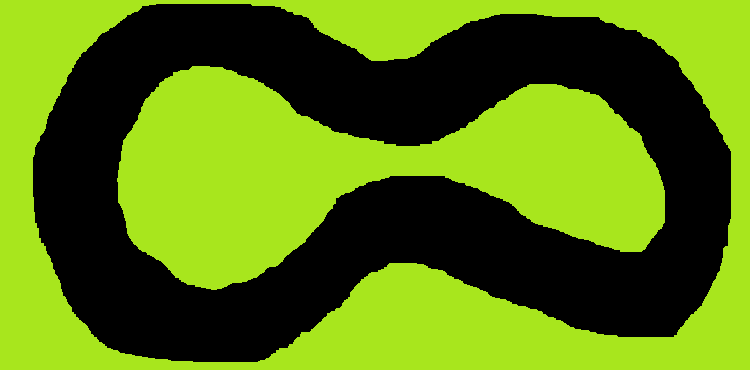
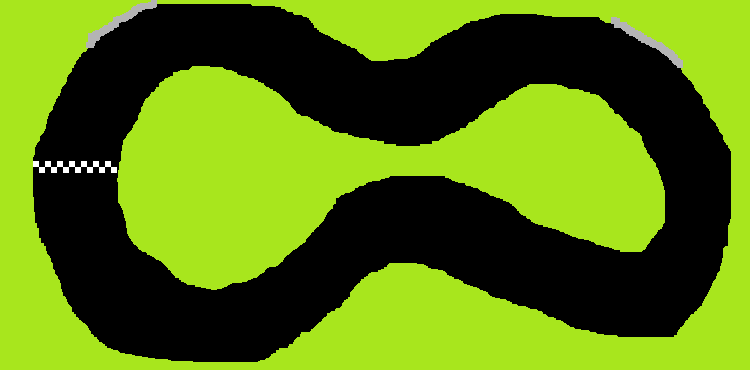
.
.

diff --git a/src/js/level1.js b/src/js/level1.js
@@ -15,22 +15,36 @@ export class Level1 extends Scene {
         this.background = new Background(Resources.Background.toSprite(), 750, 370, 3, 3);
         this.add(this.background);
 
-        // Add the finish line
-        this.finishLine = new FinishLine(-150, 300, 200, 10);
-        this.add(this.finishLine);
-    }
-    
-    onActivate() {
+        // Add checkpoints
+        this.checkpoints = [];
+
+        // Example of checkpoint creation
+        const checkpoint1 = new FinishLine(1700, 300, 200, 10, false); // Adjust position and size as needed
+        this.add(checkpoint1);
+        this.checkpoints.push(checkpoint1);
+
+        // Example of another checkpoint
+        const checkpoint2 = new FinishLine(-150, 300, 200, 10, false); // Adjust position and size as needed
+        this.add(checkpoint2);
+        this.checkpoints.push(checkpoint2);
+
+        // Set the last checkpoint and final finish line
+        this.checkpoints[this.checkpoints.length - 1].isFinalFinishLine = true;
+
+        // Add the finish line (final) 1700, 300, 200, 10, fals
+        this.finishLineFinal = new FinishLine(1700, 300, 200, 10, false);
+        this.add(this.finishLineFinal);
+
         // Create Player 1 (Red Car)
-        this.player1 = new Player(300, 300, 50, 50, true, this.game);
+        this.player1 = new Player(-150, 200, 50, 80, true, this.game);
         this.add(this.player1);
     
         // Create Player 2 (Blue Car)
-        this.player2 = new Player(500, 300, 50, 50, false, this.game);
+        this.player2 = new Player(-50, 200, 50, 80, false, this.game);
         this.add(this.player2);
 
         // Create and add a Gun to the scene
-        this.gun = new Gun(Resources.Gun.toSprite(), 400, 300, 30, 10, "Gun");
+        this.gun = new Gun(Resources.Gun.toSprite(), 500, 0, 50, 40, "Gun");
         this.add(this.gun);
     }
 

diff --git a/src/js/players.js b/src/js/players.js
@@ -43,9 +43,18 @@ export class Player extends Actor {
             gun.pos = new Vector(0, -this.height / 2 - gun.height / 2);
         }
 
-        // Check if the player has completed a lap
+        // Check if the player has passed a checkpoint
         if (event.other instanceof FinishLine) {
-            this.game.addLap();
+            if (!event.other.isCheckpointPassed()) {
+                // Mark checkpoint as passed
+                event.other.setCheckpointPassed();
+                console.log('Checkpoint passed!');
+            } else {
+                // If all checkpoints are passed and it's the final finish line, add a lap
+                if (event.other.isFinalFinishLine && this.game) {
+                    this.game.addLap();
+                }
+            }
         }
     }
 

diff --git a/src/js/finishline.js b/src/js/finishline.js
@@ -1,16 +1,27 @@
 import { Actor, CollisionType, Vector } from 'excalibur';
 
 export class FinishLine extends Actor {
-    constructor(x, y, width, height) {
+    constructor(x, y, width, height, checkpointPassed = false) {
         super({
             pos: new Vector(x, y),
             width: width,
             height: height,
             collisionType: CollisionType.Passive
         });
+
+        this.checkpointPassed = checkpointPassed;
+        this.isFinalFinishLine = false; 
     }
 
     onInitialize(engine) {
         this.graphics.opacity = 0;
+    }
+
+    setCheckpointPassed() {
+        this.checkpointPassed = true;
+    }
+
+    isCheckpointPassed() {
+        return this.checkpointPassed;
     }
 }

diff --git a/src/js/game.js b/src/js/game.js
@@ -27,7 +27,7 @@ export class Game extends Engine {
         const groupedColliders = new GroupedColliders();
         mainScene.add(groupedColliders);
 
-        // Initialize and add UI
+        // Game UI
         this.ui = new UI();
         console.log("UI initialized", this.ui);
         this.add(this.ui);

diff --git a/src/js/ui.js b/src/js/ui.js
@@ -25,11 +25,3 @@ export class UI extends ScreenElement {
         }
     }
 }
-
-
-// export class UI extends ScreenElement {
-//     onInitialize(engine) {
-//         this.scoreText = new Label({...})
-//         this.addChild(this.scoreText)
-//     }
-// }
